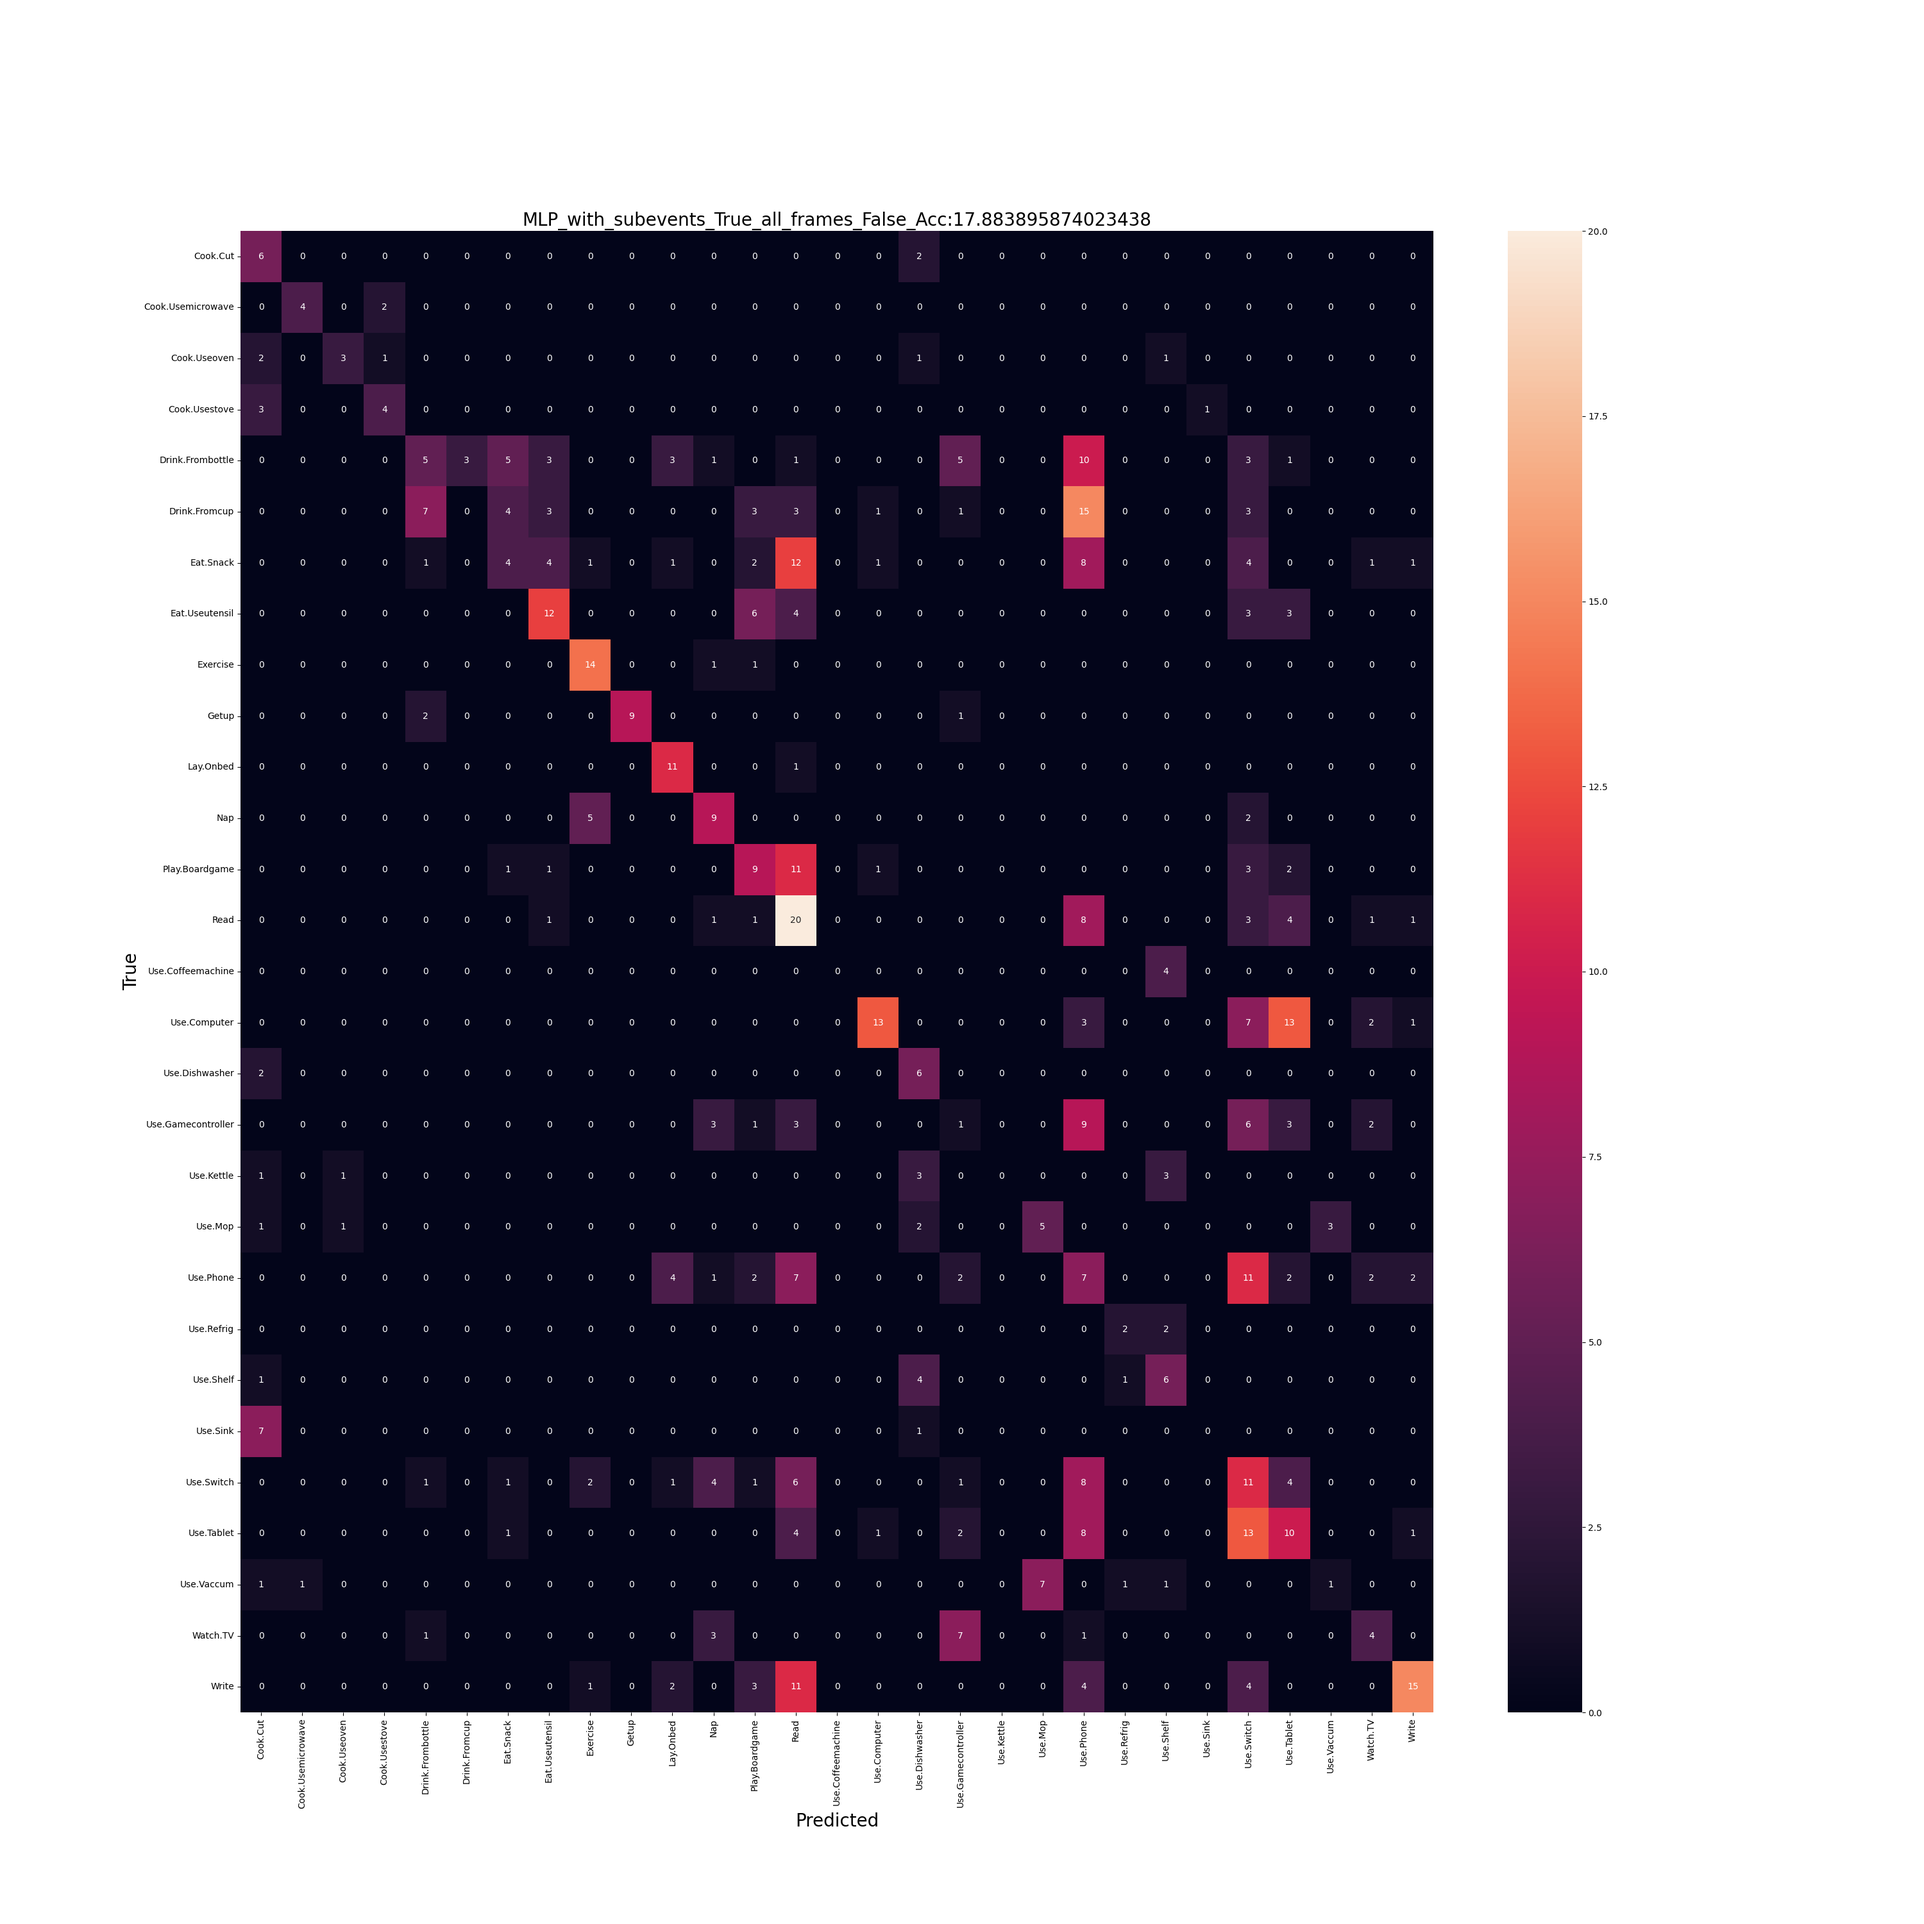
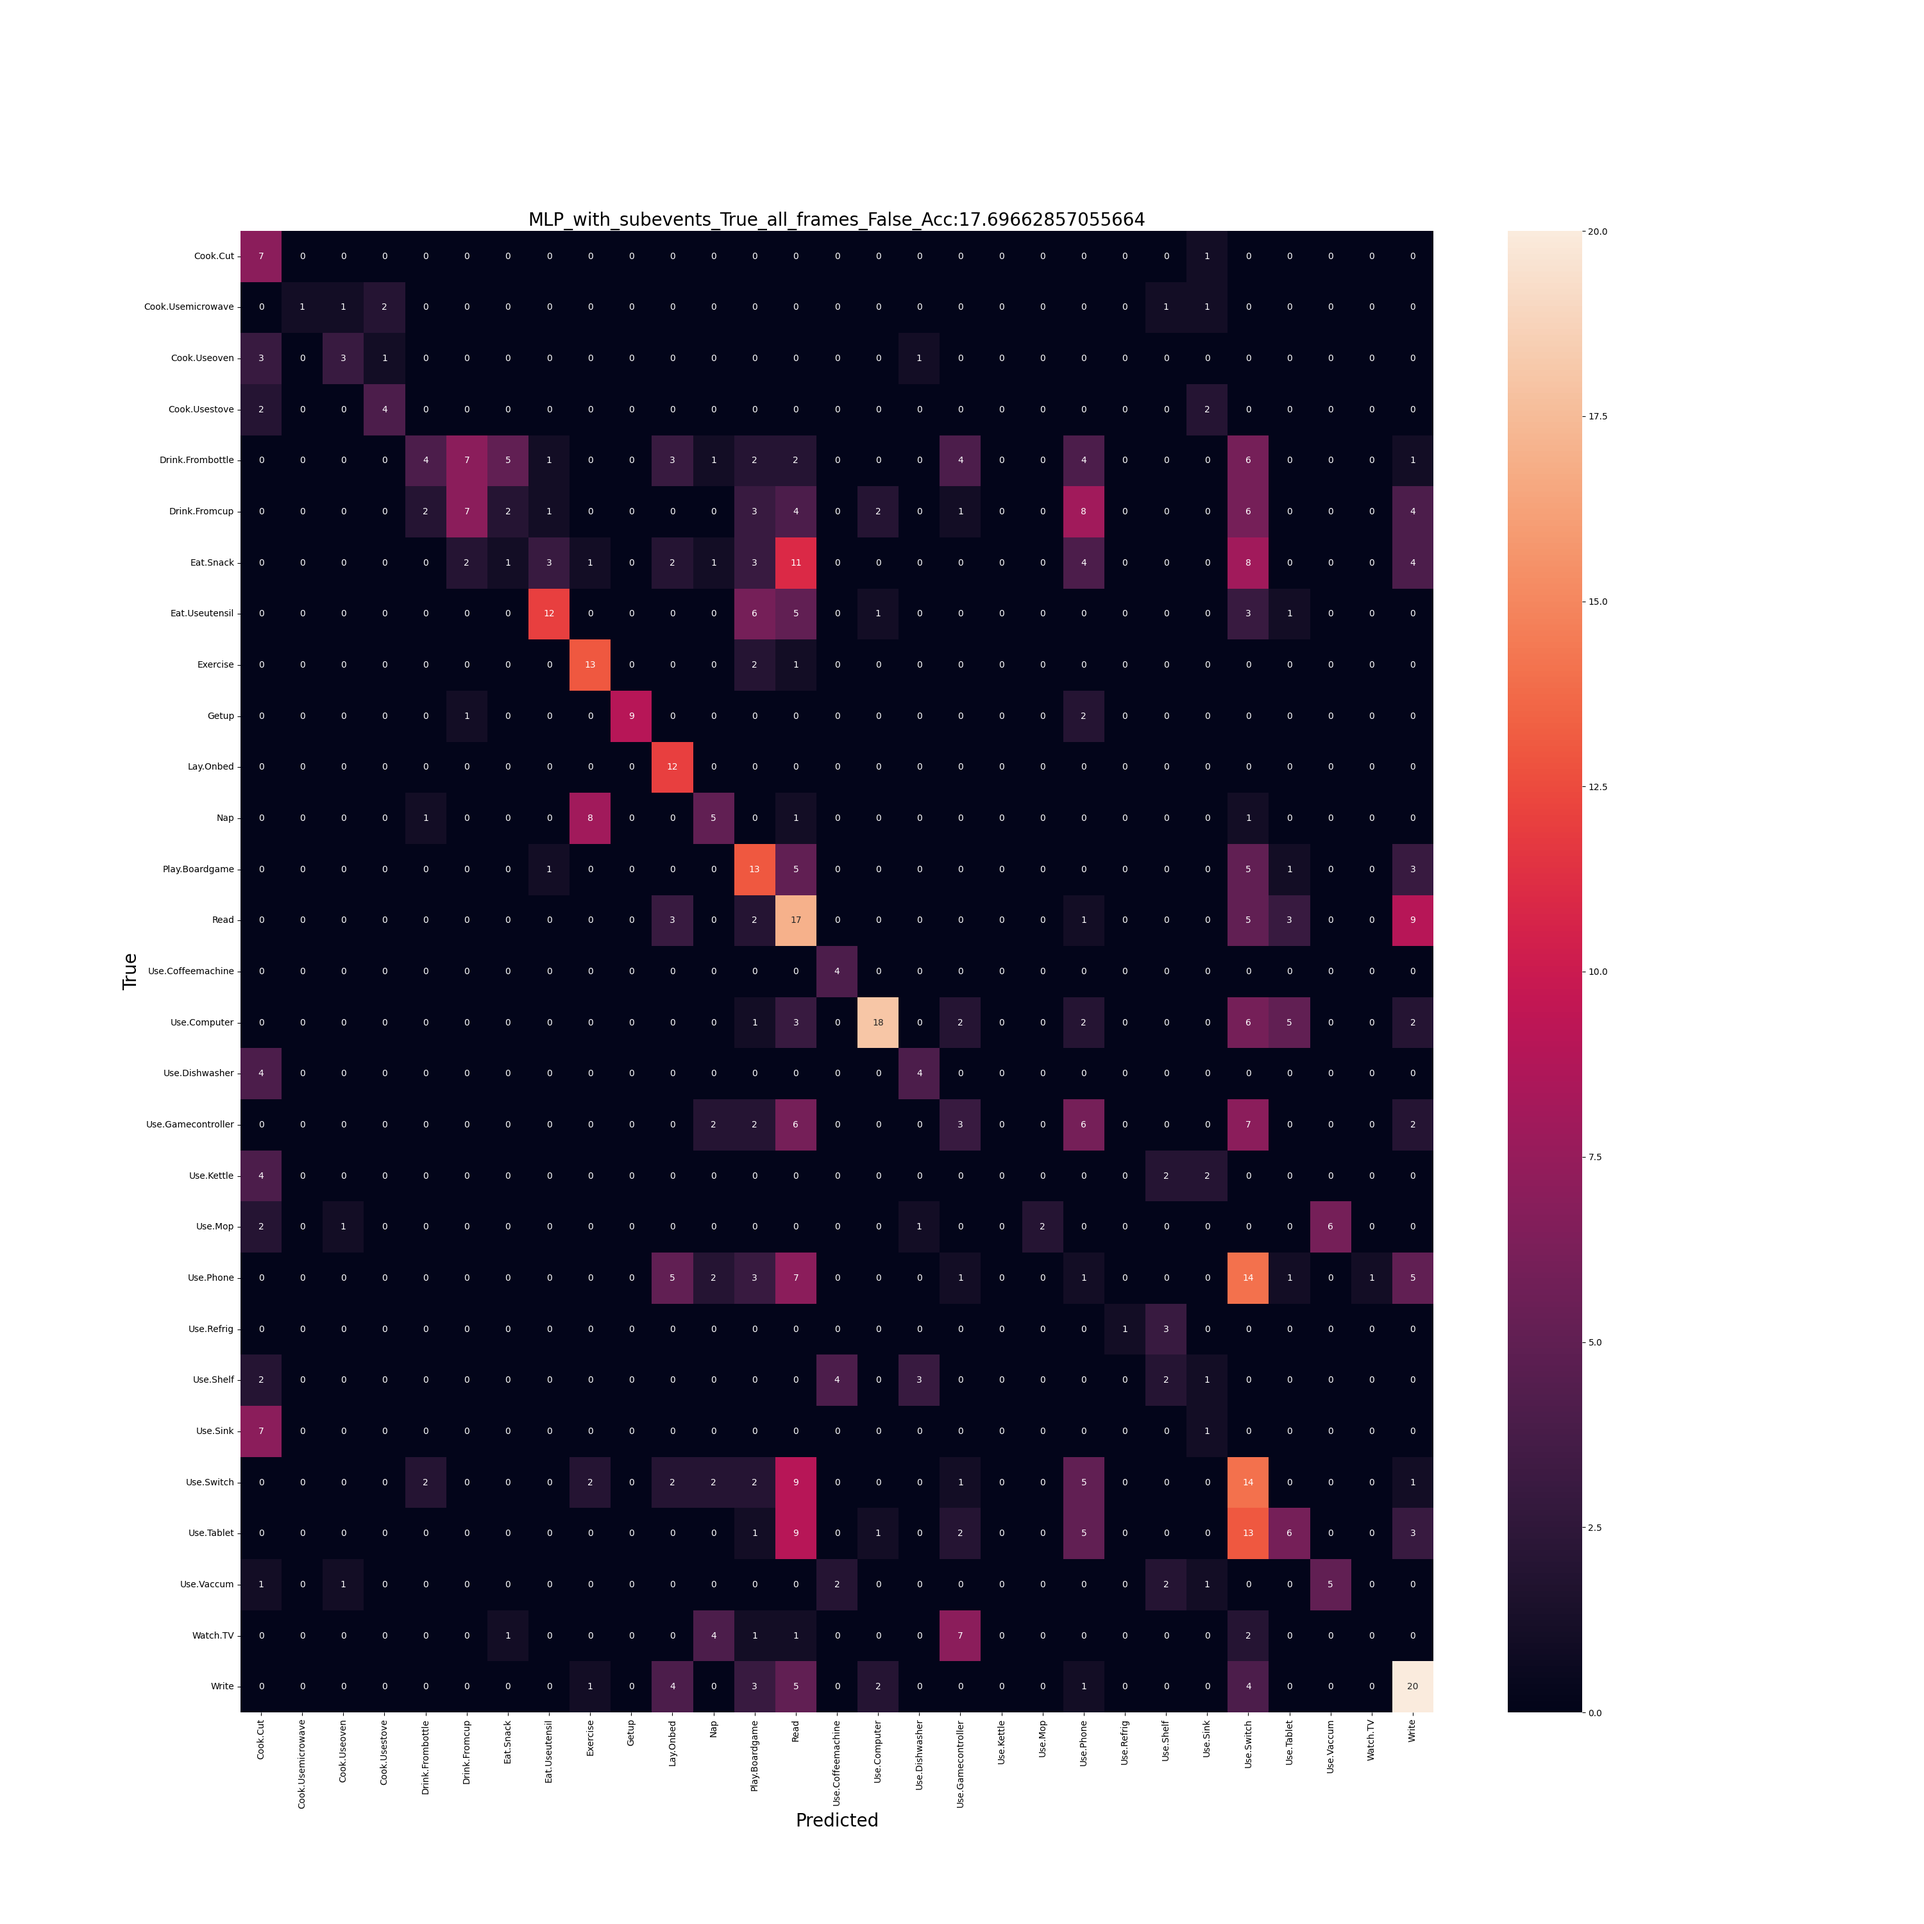
version right before using youhome.py load dataset (imagefolder, and yolo cropped version)

diff --git a/clip_youhome_inference.py b/clip_youhome_inference.py
@@ -28,16 +28,18 @@ from pathlib import Path
 #Parameters to set each fun
 with_subevents = True
 all_frames = False
-batch_size = 128
+batch_size = 64
 num_epochs = 60
 train = True
-learning_rate = .001
+learning_rate = .001 #1e-5 #.001
 use_transforms = True
+combine_text = False
 DEBUG = 0 #note debug only runs one iteration
 if DEBUG:
     run_name='debugging'
 else:
-    run_name=f"MLP_with_subevents_{with_subevents}_all_frames_{all_frames}" #all_frames_with_subevents"
+    run_name=f"MLP_with_subevents_{with_subevents}_all_frames_{all_frames}_lr_{learning_rate}_splitv2" #all_frames_with_subevents"
+    # run_name = "solo_resnet18"
 print("Running:", run_name)
 
 #for logging loss and accuracy
@@ -50,6 +52,16 @@ device = "cuda" if torch.cuda.is_available() else "cpu"
 
 model, preprocess = clip.load("ViT-B/32", device=device)
 # template = "A picture of a person " #this shows minimal diference in results
+# class dummy(nn.Module):
+#     def forward(self,x):
+#         return x
+#     def encode_image(self,image):
+#         return image
+#     def encode_text(self,text):
+#         return text
+# model, preprocess = dummy(),lambda x: transforms.ToTensor()(x)
+
+
 
 template = "A person is "
 words = ["cooking","drinking","eating","exercising","getting up", "laying", "napping", "playing","reading","using something","watching TV", "writing"]
@@ -204,8 +216,8 @@ if use_transforms:
 else:
     train_transforms = None
 
-dataset_train = YouHomeDataset("/home/abhi/research/SmartHome/Data/youhome_mp4_data/train_split",transforms=train_transforms)
-dataset_test = YouHomeDataset("/home/abhi/research/SmartHome/Data/youhome_mp4_data/test_split")
+dataset_train = YouHomeDataset("/home/abhi/research/SmartHome/Data/youhome_mp4_data/train_split_v2",transforms=train_transforms)
+dataset_test = YouHomeDataset("/home/abhi/research/SmartHome/Data/youhome_mp4_data/test_split_v2")
 dataloader_train = torch.utils.data.DataLoader(dataset_train, batch_size=batch_size, shuffle=True)
 dataloader_test = torch.utils.data.DataLoader(dataset_test, batch_size=batch_size, shuffle=True)
 
@@ -228,13 +240,18 @@ dataloader_test = torch.utils.data.DataLoader(dataset_test, batch_size=batch_siz
 # adapt_model.fc = nn.Linear(num_features, len(gt_labels))
 # adapt_model.conv1 = nn.Sequential(nn.Linear(512,32*32*3),nn.Unflatten(1,(3,32,32)),adapt_model.conv1)
 
+
 #MLP Version:
-adapt_model = torchvision.ops.MLP(512,[256,128,len(gt_labels)])
+if combine_text:
+    adapt_model = torchvision.ops.MLP(len(dataset_test.debug_labels_text),[256,128,len(dataset_test.debug_labels_text)]) #because clip's model.encode(0 results in batch_sizex512)
+else:
+    adapt_model = torchvision.ops.MLP(512,[256,128,len(dataset_test.debug_labels_text)]) #because clip's model.encode(0 results in batch_sizex512)
 
 
 adapt_model = adapt_model.to(device)
 criterion =  nn.CrossEntropyLoss()
-optimizer = optim.Adam(adapt_model.parameters(),lr=learning_rate)#optim.SGD(adapt_model.parameters(),lr=learning_rate, momentum=.9) # lr=.001
+optimizer = optim.Adam(adapt_model.parameters(),lr=learning_rate, weight_decay=1e-5)#optim.SGD(adapt_model.parameters(),lr=learning_rate, momentum=.9) # lr=.001
+scheduler = optim.lr_scheduler.CosineAnnealingWarmRestarts(optimizer, T_0=25)
 
 start_time = time.time() #(for showing time)
 if train:
@@ -246,7 +263,13 @@ if train:
             image_features = model.encode_image(images.to(device))
             text_features = model.encode_text(text.to(device))
             labels = labels.to(device)
-            # if DEBUG: print("image_features",image_features.shape,"text_features",text_features.shape)
+            if combine_text:
+                image_features_normed = image_features/image_features.norm(dim=-1, keepdim=True)
+                text_features_normed = text_features/text_features.norm(dim=-1, keepdim=True)
+                image_features = image_features_normed @ text_features_normed.T
+                
+
+            if DEBUG: print("image_features",image_features.shape,"text_features",text_features.shape)
             # image_features torch.Size([32, 512]) text_features torch.Size([29, 512])
 
             optimizer.zero_grad()
@@ -271,10 +294,14 @@ if train:
         train_writer.add_scalar("epoch_loss",epoch_loss,epoch)
         train_writer.add_scalar("epoch_acc",epoch_acc,epoch)
 
+        # update the learning rate
+        scheduler.step()
+
         print("Intermediate model save as ", 'models/'+run_name+'.pth')
         torch.save(adapt_model.state_dict(), 'models/'+run_name+'.pth')
         if epoch%5 ==0:
             #This loop is for performing testing/evaluation
+            print("VALIDATING MODEL")
             adapt_model.eval()
             with torch.no_grad():
                 running_loss = 0.
@@ -284,6 +311,11 @@ if train:
                     image_features = model.encode_image(images)
                     text_features = model.encode_text(text)
                     labels = labels.to(device)
+                    if combine_text:
+                        image_features_normed = image_features/image_features.norm(dim=-1, keepdim=True)
+                        text_features_normed = text_features/text_features.norm(dim=-1, keepdim=True)
+                        image_features = image_features_normed @ text_features_normed.T
+
                     if DEBUG: print("image_features",image_features.shape,"text_features",text_features.shape)
 
                     outputs = adapt_model(image_features.float())
@@ -321,6 +353,11 @@ with torch.no_grad():
         image_features = model.encode_image(images)
         text_features = model.encode_text(text)
         labels = labels.to(device)
+        if combine_text:
+            image_features_normed = image_features/image_features.norm(dim=-1, keepdim=True)
+            text_features_normed = text_features/text_features.norm(dim=-1, keepdim=True)
+            image_features = image_features_normed @ text_features_normed.T
+
         if DEBUG: print("image_features",image_features.shape,"text_features",text_features.shape)
 
         outputs = adapt_model(image_features.float())
@@ -373,3 +410,11 @@ plt.show()
     # OR multiply img embedding by text embedding, flatten that matrix and pass that through a few linear layers (MLP) 
     # and train that to output correct classes
 # instead of sampling Every frame, sample every 10 frames or 25 frames (25 frames at 25 fps would be 1 hz)
+# logistic regression with augmented data
+
+""""
+To Ask Neo:
+- 31 events? i'm counting 29 in all the folders
+- what is binary_react dataset?
+- was it tested on Toyota dataset?
+"""
